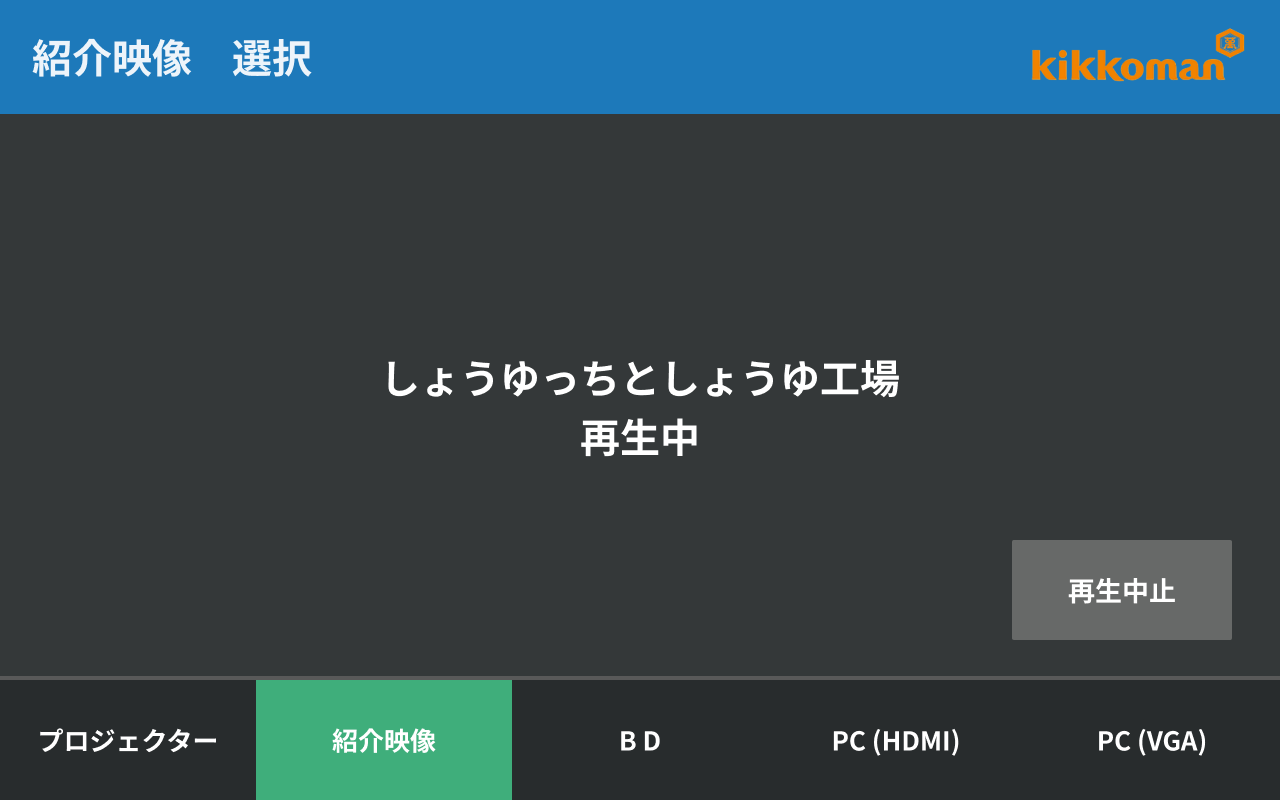
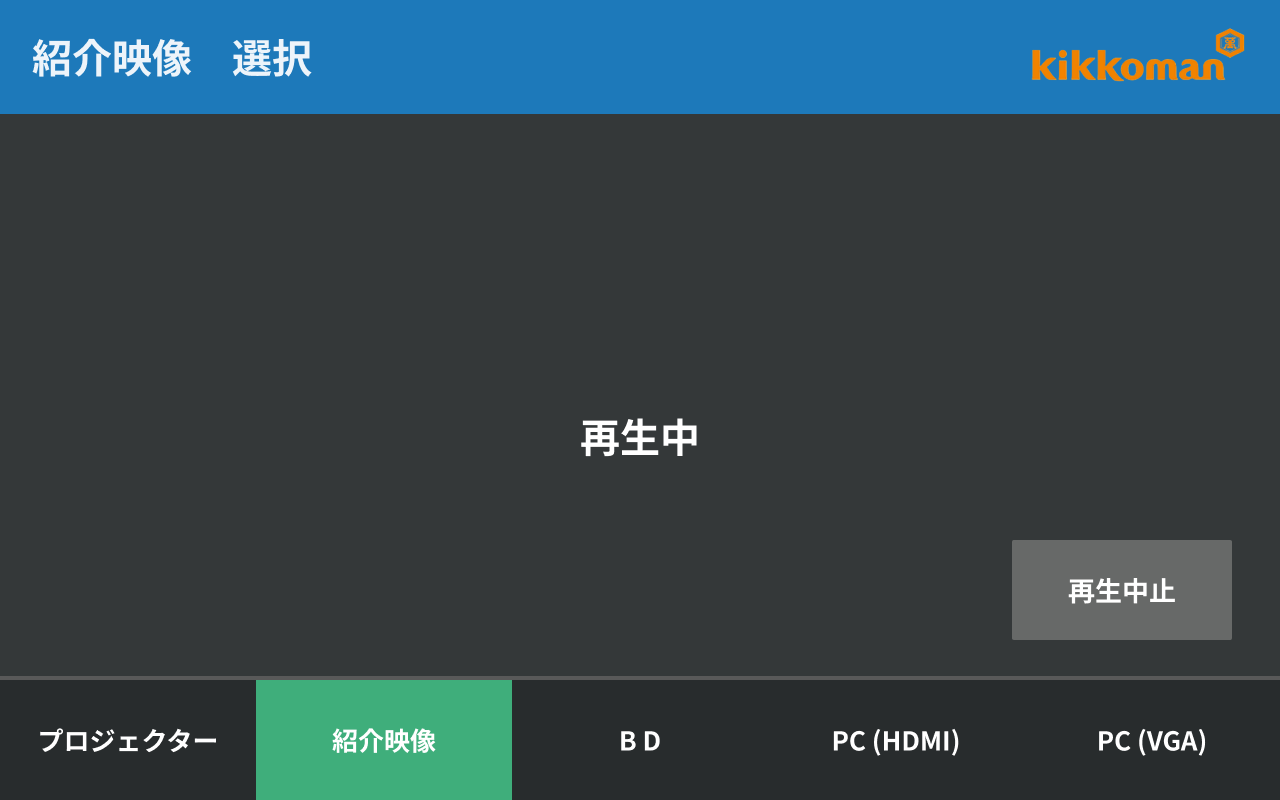
Fixed style

Changed region(s): [[0.2812, 0.4375, 0.7188, 0.5]]

diff --git a/app.js b/app.js
@@ -108,6 +108,12 @@
   var activeActionButton = null;
   var activeActionPointerId = null;
 
+  function parseIntroVideoConfig(content) {
+    var normalizedContent = String(content).replace(/^\uFEFF/, "");
+    normalizedContent = normalizedContent.replace(/\r\n?/g, "\n");
+    return JSON.parse(normalizedContent);
+  }
+
   function applyIntroVideoConfig(config) {
     var configuredButtons = new Array(introButtons.length);
     var seenIds = {};
@@ -171,7 +177,7 @@
           if (request.status !== 0 && request.status !== 200) {
             throw new Error("HTTP status " + request.status);
           }
-          applyIntroVideoConfig(JSON.parse(request.responseText));
+          applyIntroVideoConfig(parseIntroVideoConfig(request.responseText));
           console.log("Introduction-video names loaded from bundled intro-videos.json.");
         } catch (error) {
           console.error("Invalid bundled intro-videos.json; built-in button names will be used: " + error.message);
@@ -221,7 +227,7 @@
       }
 
       try {
-        applyIntroVideoConfig(JSON.parse(content));
+        applyIntroVideoConfig(parseIntroVideoConfig(content));
         console.log("Introduction-video names loaded from " + EXTERNAL_INTRO_VIDEO_CONFIG_PATH + ".");
         callback();
       } catch (error) {

diff --git a/tools/intro-video-config-self-test.js b/tools/intro-video-config-self-test.js
@@ -47,6 +47,7 @@ var projectRoot = path.join(__dirname, "..");
 var config = JSON.parse(fs.readFileSync(path.join(projectRoot, "intro-videos.json"), "utf8"));
 config.videos[0].ja = "外部設定テスト";
 config.videos[0].en = "External Config Test";
+var externalConfigText = "\uFEFF" + JSON.stringify(config, null, 2).replace(/\n/g, "\r\n") + "\r\n";
 var requestedPath = "";
 var elements = {
   stage: createElementStub(),
@@ -66,7 +67,7 @@ var context = {
     return {
       readFile: function (filePath, encoding, callback) {
         requestedPath = filePath;
-        callback(null, JSON.stringify(config));
+        callback(null, externalConfigText);
       }
     };
   },
@@ -101,4 +102,4 @@ var externalButton = elements.hotspots.children.filter(function (button) {
 assert.ok(externalButton, "Expected the external JSON name to override the bundled name");
 assert.strictEqual(externalButton.children[1].textContent, "External Config Test");
 
-console.log("Intro-video config self-test passed: external SD JSON path and names took priority.");
+console.log("Intro-video config self-test passed: BOM and CRLF were accepted and external SD names took priority.");

diff --git a/index.html b/index.html
@@ -5,7 +5,7 @@
     <meta name="viewport" content="width=device-width, initial-scale=1, maximum-scale=1, user-scalable=no">
     <meta name="theme-color" content="#303435">
     <title>シアター操作パネル — BrightSign Test</title>
-    <link rel="stylesheet" href="styles.css?v=20260903-1">
+    <link rel="stylesheet" href="styles.css?v=20260925-1">
     <script src="udp-config.js?v=20260825-7"></script>
     <script src="projector-config.js?v=20260831-1"></script>
     <script src="switcher-config.js?v=20260825-6"></script>

diff --git a/styles.css b/styles.css
@@ -168,9 +168,9 @@ button {
 .playback-label {
   position: absolute;
   top: 320px;
-  left: 400px;
+  left: 320px;
   display: flex;
-  width: 480px;
+  width: 640px;
   height: 170px;
   align-items: center;
   justify-content: center;
@@ -181,7 +181,17 @@ button {
   font-size: 42px;
   font-weight: 700;
   line-height: 1.25;
+  text-align: center;
   pointer-events: none;
+}
+
+.playback-label span {
+  display: block;
+  width: 100%;
+}
+
+.playback-label span:first-child {
+  white-space: nowrap;
 }
 
 .bd-playback-button {
